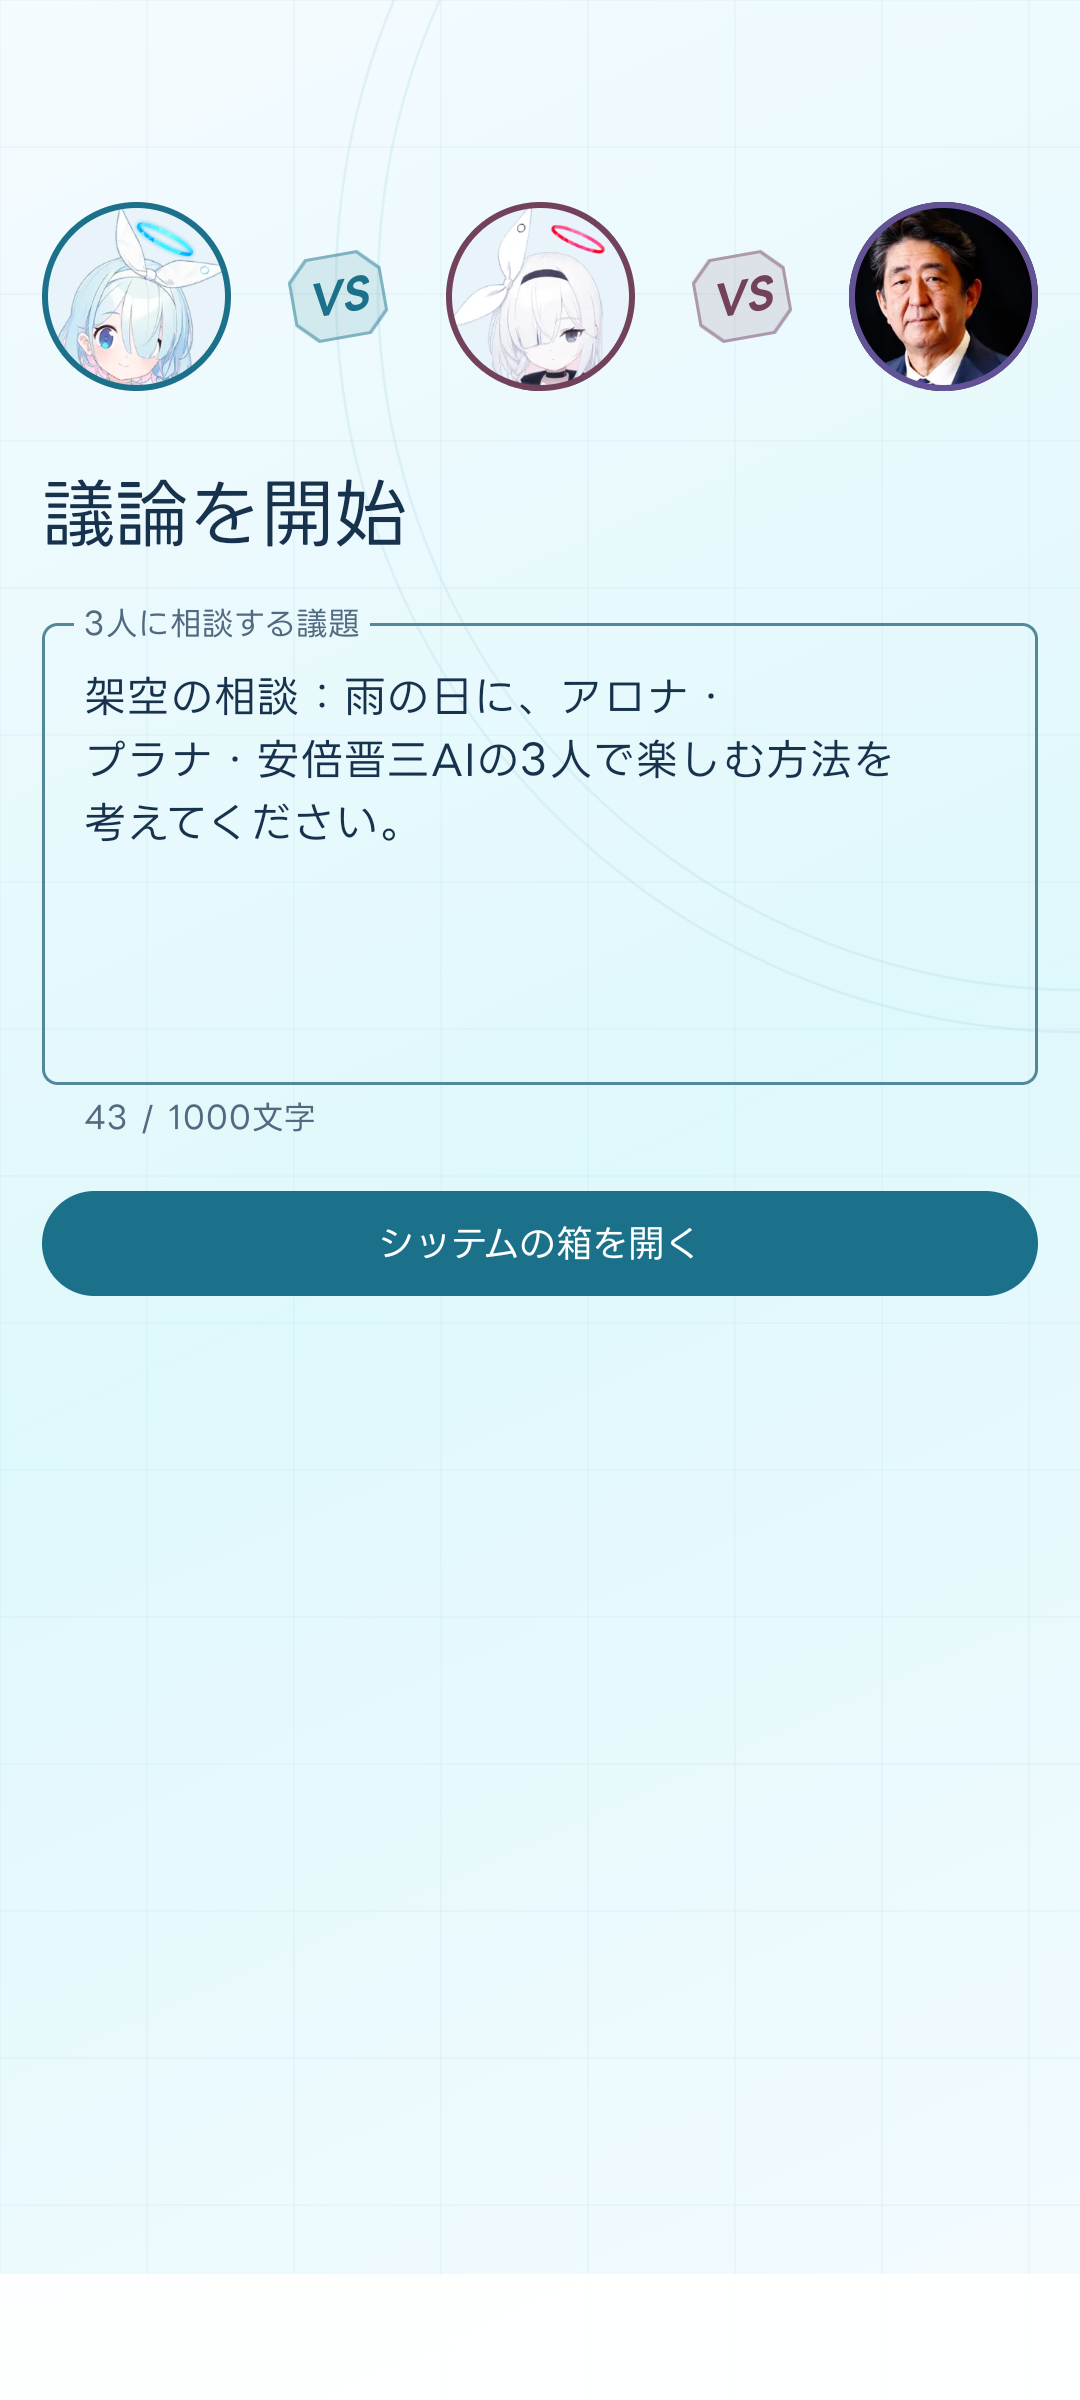
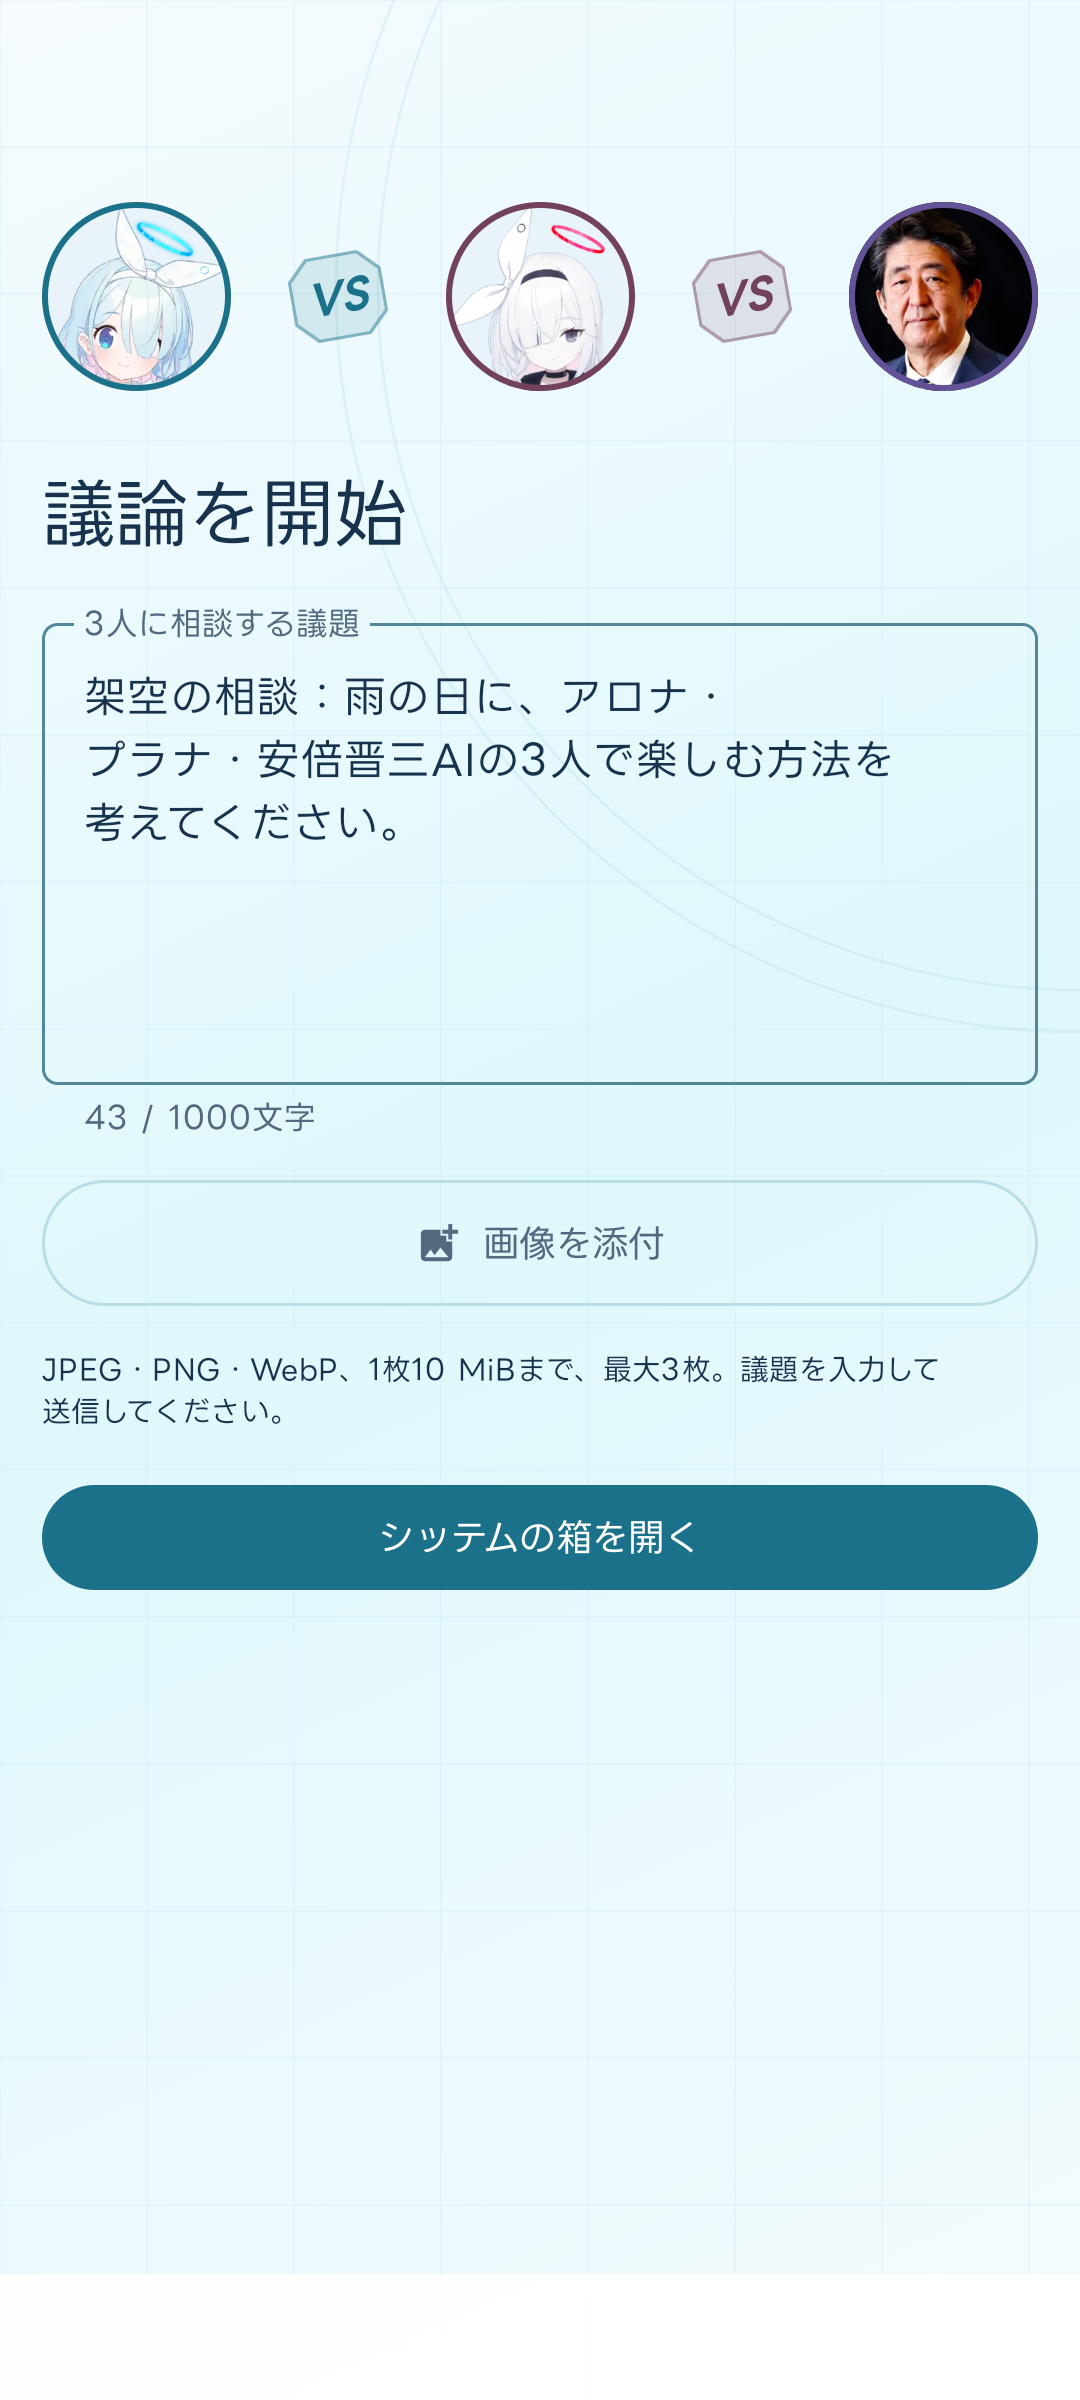
Androidの画像添付をアイコン付き枠線ボタンに変更

Changed region(s): [[0.0306, 0.4688, 0.9778, 0.6875]]

diff --git a/apps/records-android/app/src/main/java/dev/pitekusu/shittim/records/DebateComposeScreen.kt b/apps/records-android/app/src/main/java/dev/pitekusu/shittim/records/DebateComposeScreen.kt
@@ -2,15 +2,21 @@ package dev.pitekusu.shittim.records
 
 import androidx.compose.foundation.layout.Arrangement
 import androidx.compose.foundation.layout.Column
+import androidx.compose.foundation.layout.Spacer
 import androidx.compose.foundation.layout.fillMaxSize
 import androidx.compose.foundation.layout.fillMaxWidth
 import androidx.compose.foundation.layout.heightIn
 import androidx.compose.foundation.layout.padding
+import androidx.compose.foundation.layout.size
+import androidx.compose.foundation.layout.width
 import androidx.compose.foundation.rememberScrollState
 import androidx.compose.foundation.verticalScroll
 import androidx.compose.material3.Button
+import androidx.compose.material3.ButtonDefaults
 import androidx.compose.material3.CircularProgressIndicator
+import androidx.compose.material3.Icon
 import androidx.compose.material3.MaterialTheme
+import androidx.compose.material3.OutlinedButton
 import androidx.compose.material3.OutlinedTextField
 import androidx.compose.material3.Text
 import androidx.compose.material3.TextButton
@@ -25,6 +31,7 @@ import androidx.compose.runtime.mutableStateOf
 import androidx.compose.runtime.remember
 import androidx.compose.ui.Modifier
 import androidx.compose.ui.platform.testTag
+import androidx.compose.ui.res.painterResource
 import androidx.compose.ui.res.stringResource
 import androidx.compose.ui.unit.dp
 import dev.pitekusu.shittim.records.ui.ShittimPanel
@@ -69,12 +76,17 @@ internal fun DebateComposeScreen(state: DebateSubmissionState, online: Boolean,
       minLines = 6, modifier = Modifier.fillMaxWidth().heightIn(min = 180.dp).testTag("debate-question"))
     if (selectedImages.isNotEmpty()) AttachmentThumbnails(selectedImages, { openedImage = it },
       onRemove = if (!frozen && !state.busy) onRemoveImage else null)
-    if (!frozen) TextButton(onClick = {
+    if (!frozen) OutlinedButton(onClick = {
       val request = PickVisualMediaRequest(ActivityResultContracts.PickVisualMedia.ImageOnly)
       if (workspace.attachments.size == MAX_ATTACHMENT_COUNT - 1) singlePicker.launch(request)
       else multiplePicker.launch(request)
     }, enabled = !state.busy && workspace.attachments.size < MAX_ATTACHMENT_COUNT,
-      modifier = Modifier.testTag("debate-add-images")) { Text(stringResource(R.string.attachment_add)) }
+      modifier = Modifier.fillMaxWidth().heightIn(min = 48.dp).testTag("debate-add-images")) {
+      Icon(painterResource(R.drawable.ic_add_photo), contentDescription = null,
+        modifier = Modifier.size(ButtonDefaults.IconSize))
+      Spacer(Modifier.width(ButtonDefaults.IconSpacing))
+      Text(stringResource(R.string.attachment_add))
+    }
     Text(stringResource(R.string.attachment_limits), style = MaterialTheme.typography.labelSmall)
     if (demo && !frozen) TextButton(onClick = { onImagesSelected(listOf(DEMO_SAMPLE_IMAGE_URI)) },
       enabled = !state.busy && workspace.attachments.size < MAX_ATTACHMENT_COUNT,

diff --git a/apps/records-android/app/src/androidTest/java/dev/pitekusu/shittim/records/DebateScreensUiTest.kt b/apps/records-android/app/src/androidTest/java/dev/pitekusu/shittim/records/DebateScreensUiTest.kt
@@ -8,6 +8,8 @@ import androidx.compose.foundation.layout.fillMaxSize
 import androidx.compose.foundation.layout.safeDrawingPadding
 import androidx.compose.ui.graphics.asAndroidBitmap
 import androidx.compose.ui.test.assertIsDisplayed
+import androidx.compose.ui.test.assertHasClickAction
+import androidx.compose.ui.test.assertIsEnabled
 import androidx.compose.ui.test.assertIsNotEnabled
 import androidx.compose.ui.test.DeviceConfigurationOverride
 import androidx.compose.ui.test.FontScale
@@ -53,6 +55,7 @@ class DebateScreensUiTest {
       }
     } }
     compose.onNodeWithTag("debate-question").assertIsDisplayed()
+    compose.onNodeWithTag("debate-add-images").performScrollTo().assertIsDisplayed().assertHasClickAction().assertIsEnabled()
     screenshot("debate-versus-dark.png")
     compose.runOnIdle { online.value = false }
     compose.onNodeWithTag("debate-submit").performScrollTo().assertIsNotEnabled()
@@ -70,6 +73,7 @@ class DebateScreensUiTest {
         }
       }
     } }
+    compose.onNodeWithTag("debate-add-images").performScrollTo().assertIsDisplayed().assertHasClickAction().assertIsEnabled()
     screenshot("debate-versus-light.png")
     compose.runOnIdle { assertEquals(0, submitted) }
     compose.onNodeWithTag("debate-submit").performScrollTo().performClick()
@@ -91,6 +95,7 @@ class DebateScreensUiTest {
       }
     } }
     compose.onNodeWithTag("debate-versus").assertIsDisplayed()
+    compose.onNodeWithTag("debate-add-images").performScrollTo().assertIsDisplayed().assertHasClickAction().assertIsEnabled()
     screenshot("debate-versus-large-text.png")
     compose.onNodeWithTag("debate-submit").performScrollTo().performClick()
     compose.runOnIdle { assertEquals(1, submitted) }

diff --git a/docs/29_Androidアプリ設計.md b/docs/29_Androidアプリ設計.md
@@ -1562,7 +1562,7 @@ C40の確認は既存設定と担当表、C38／C39・Android READMEの参照、
 
 ## 画像添付とオフライン閲覧
 
-質問は必須で、Photo PickerからJPEG・PNG・静止WebPを最大3枚選ぶ。1枚10MiB・4,000万画素を上限とし、プレビュー・削除に対応する。選択時に原画像を暗号化コピーしてから下書き参照を保存し、送信時に質問・順序付き画像ID・要求IDを固定する。全画像の準備完了後に受付へ送信し、応答不明では同じ要求と画像の照合を優先する。
+質問は必須で、「画像を添付」は画像追加アイコン付きのMaterial 3 OutlinedButtonで示す。ボタンは利用可能な幅全体・最小48dpの高さとし、文字拡大時はラベルの折り返しに合わせて高さを広げる。形式・サイズ・枚数の説明を直下へ置く。Photo PickerからJPEG・PNG・静止WebPを最大3枚選ぶ。1枚10MiB・4,000万画素を上限とし、プレビュー・削除に対応する。選択時に原画像を暗号化コピーしてから下書き参照を保存し、送信時に質問・順序付き画像ID・要求IDを固定する。全画像の準備完了後に受付へ送信し、応答不明では同じ要求と画像の照合を優先する。
 
 記録詳細は`contract=record-images-v1`、同期の読取契約は2とする。議事録を開いたときに未保存の原画像だけを順番に取得し、容量・SHA-256を確認して暗号化保存する。画面を離れたら未完了取得を中断し、完了した画像を保持して次回に欠落分だけを再開する。未取得画像はオフラインで利用不可と明示し、本文は読み続けられる。
 
